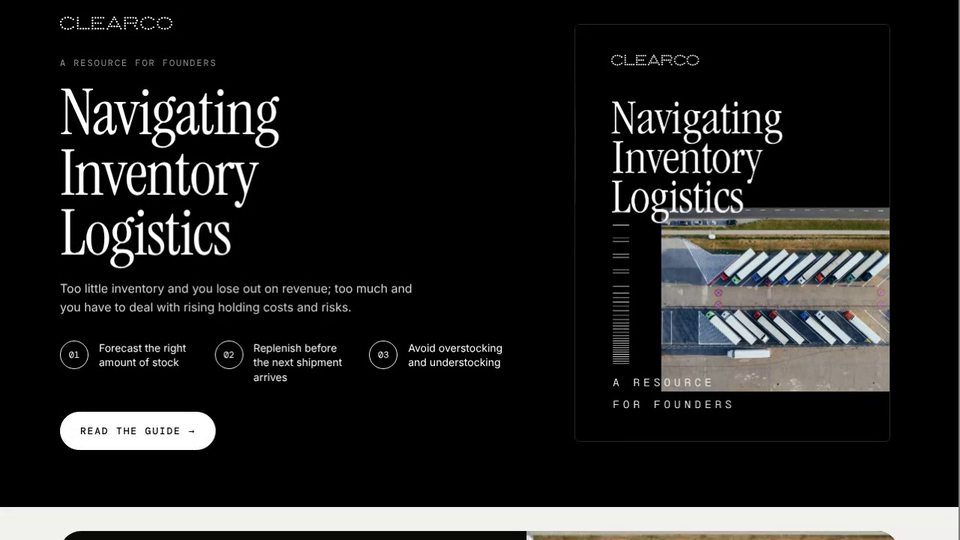
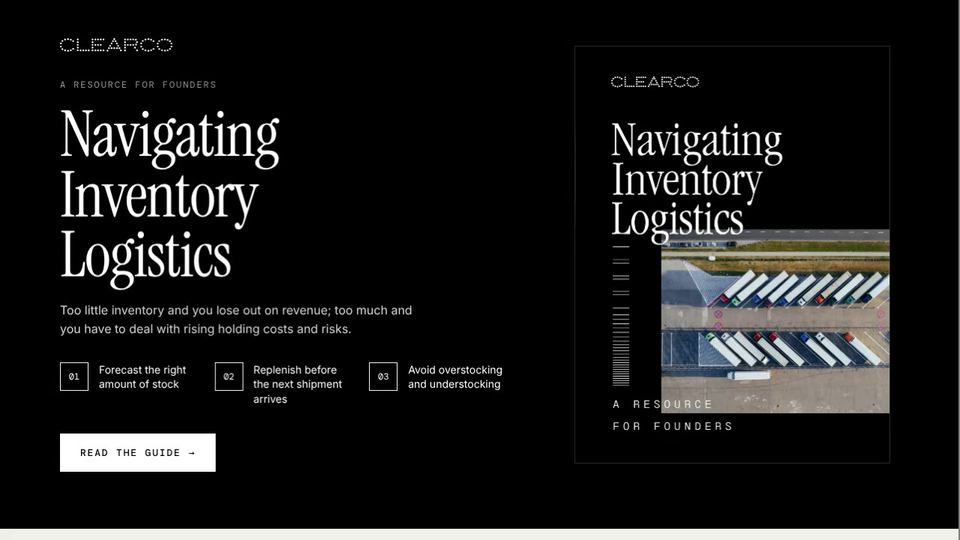
Clearco Logistics Guide: chapter text aligned to the block text indent, no rounded corners; re-record clip
Claude-Session: https://claude.ai/code/session_01AHeBdwjGFXBCupAH8deQwB

diff --git a/clearco-logistics-guide/index.html b/clearco-logistics-guide/index.html
@@ -33,11 +33,11 @@ nav.back b{font-weight:500;color:#fff;overflow:hidden;text-overflow:ellipsis}
 .wrap{width:min(1120px,100% - 40px);margin-inline:auto}
 .mono{font:400 12px/1.4 var(--mono);letter-spacing:.16em;text-transform:uppercase}
 .serif{font-family:var(--serif);font-weight:400;letter-spacing:-.01em}
-.btn{display:inline-flex;align-items:center;gap:10px;background:#000;color:#fff;text-decoration:none;font:500 13px/1 var(--mono);letter-spacing:.14em;text-transform:uppercase;padding:18px 26px;border:1px solid #000;border-radius:999px;transition:background .15s,color .15s}
+.btn{display:inline-flex;align-items:center;gap:10px;background:#000;color:#fff;text-decoration:none;font:500 13px/1 var(--mono);letter-spacing:.14em;text-transform:uppercase;padding:18px 26px;border:1px solid #000;transition:background .15s,color .15s}
 .btn:hover,.btn:focus-visible{background:#fff;color:#000}
 .btn.light{background:#fff;color:#000;border-color:#fff}
 .btn.light:hover,.btn.light:focus-visible{background:#000;color:#fff}
-.box{background:var(--paper);border-radius:28px;padding:clamp(28px,5vw,64px)}
+.box{background:var(--paper);padding:clamp(28px,5vw,64px)}
 .box.dark{background:var(--card);color:#fff}
 section{padding-block:clamp(18px,2.5vw,32px)}
 .logo{display:block;fill:currentColor}
@@ -51,8 +51,8 @@ section{padding-block:clamp(18px,2.5vw,32px)}
 .hero .lede{font:400 16px/1.55 var(--sans);max-width:30em;margin:0 0 32px;color:#d9d8d4}
 .points{list-style:none;padding:0;display:grid;grid-template-columns:repeat(3,1fr);gap:20px;margin:0 0 36px}
 .points li{display:flex;gap:14px;align-items:flex-start;font-size:14px;line-height:1.4}
-.points i{flex:none;width:38px;height:38px;border:1px solid #fff;border-radius:50%;display:grid;place-items:center;font:400 12px/1 var(--mono);font-style:normal}
-.hero .cover{width:min(420px,100%);margin:0 auto;border-radius:6px;box-shadow:0 0 0 1px #2a2a2a}
+.points i{flex:none;width:38px;height:38px;border:1px solid #fff;display:grid;place-items:center;font:400 12px/1 var(--mono);font-style:normal}
+.hero .cover{width:min(420px,100%);margin:0 auto;box-shadow:0 0 0 1px #2a2a2a}
 @media (max-width:900px){.points{grid-template-columns:1fr}}
 @media (max-width:820px){.hero .wrap{grid-template-columns:1fr}.hero .cover{width:min(320px,80%)}}
 
@@ -68,7 +68,7 @@ section{padding-block:clamp(18px,2.5vw,32px)}
 /* ---------- numbered chapter cards ---------- */
 #ch1,#ch2,#ch3{background:#fff;padding-block:clamp(48px,7vw,96px)}
 #ch2{border-top:1px solid var(--line)}
-#ch1 .box,#ch2 .box,#ch3 .box{background:none;border-radius:0;padding:0}
+#ch1 .box,#ch2 .box,#ch3 .box{background:none;padding:0 clamp(28px,5vw,64px)}
 .chap{display:grid;grid-template-columns:1.1fr 1fr;gap:clamp(24px,5vw,72px);align-items:center}
 .chap h2{font:400 clamp(34px,4.4vw,58px)/1 var(--serif);letter-spacing:-.015em;margin:14px 0 24px}
 .chap .n{color:var(--mute)}
@@ -113,7 +113,7 @@ section{padding-block:clamp(18px,2.5vw,32px)}
 
 /* what's inside */
 .inside{display:grid;grid-template-columns:repeat(5,1fr);gap:12px;margin-top:32px}
-.inside a{display:flex;flex-direction:column;justify-content:space-between;min-height:260px;padding:18px;border:1px solid #000;border-radius:18px;text-decoration:none;background:var(--paper);transition:background .15s,color .15s}
+.inside a{display:flex;flex-direction:column;justify-content:space-between;min-height:260px;padding:18px;border:1px solid #000;text-decoration:none;background:var(--paper);transition:background .15s,color .15s}
 .inside a:hover,.inside a:focus-visible{background:#000;color:#fff}
 .inside b{font:400 64px/.9 var(--serif)}
 .inside span.t{font:400 22px/1.05 var(--serif)}
